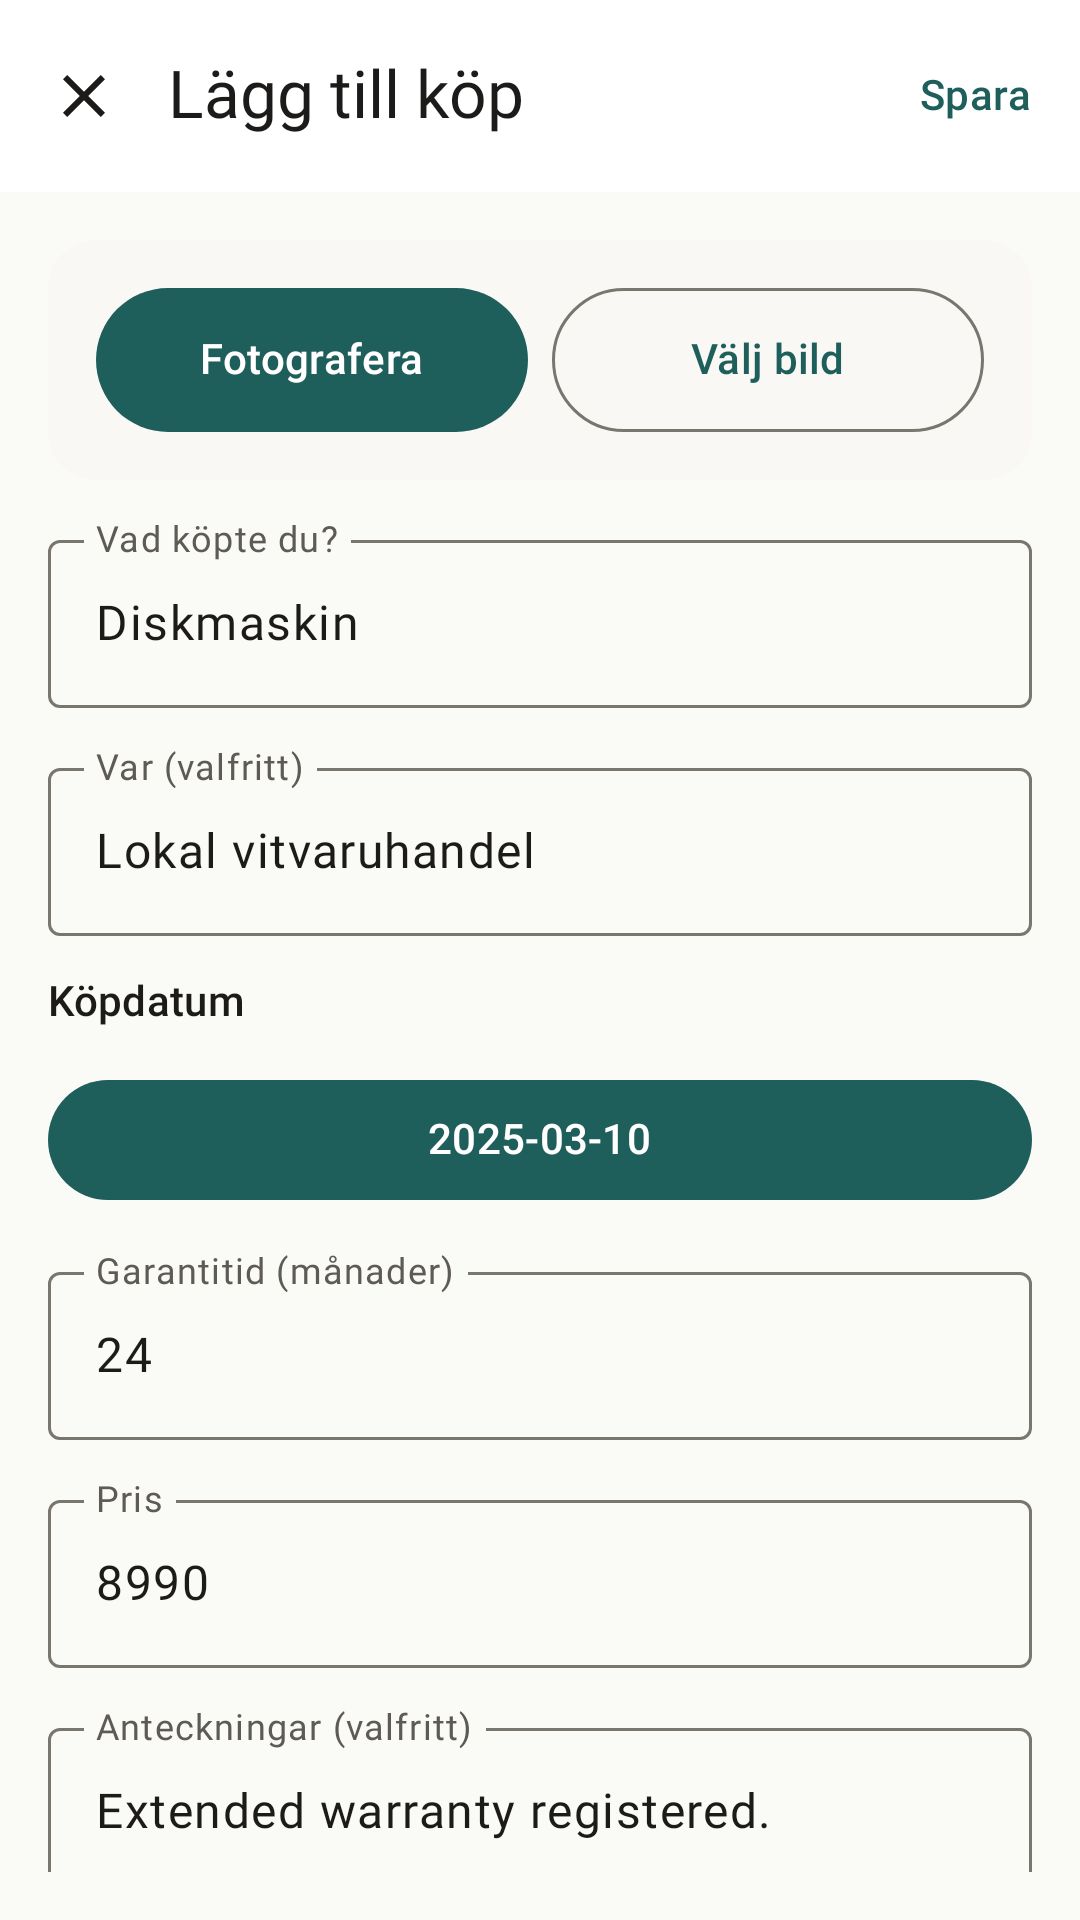
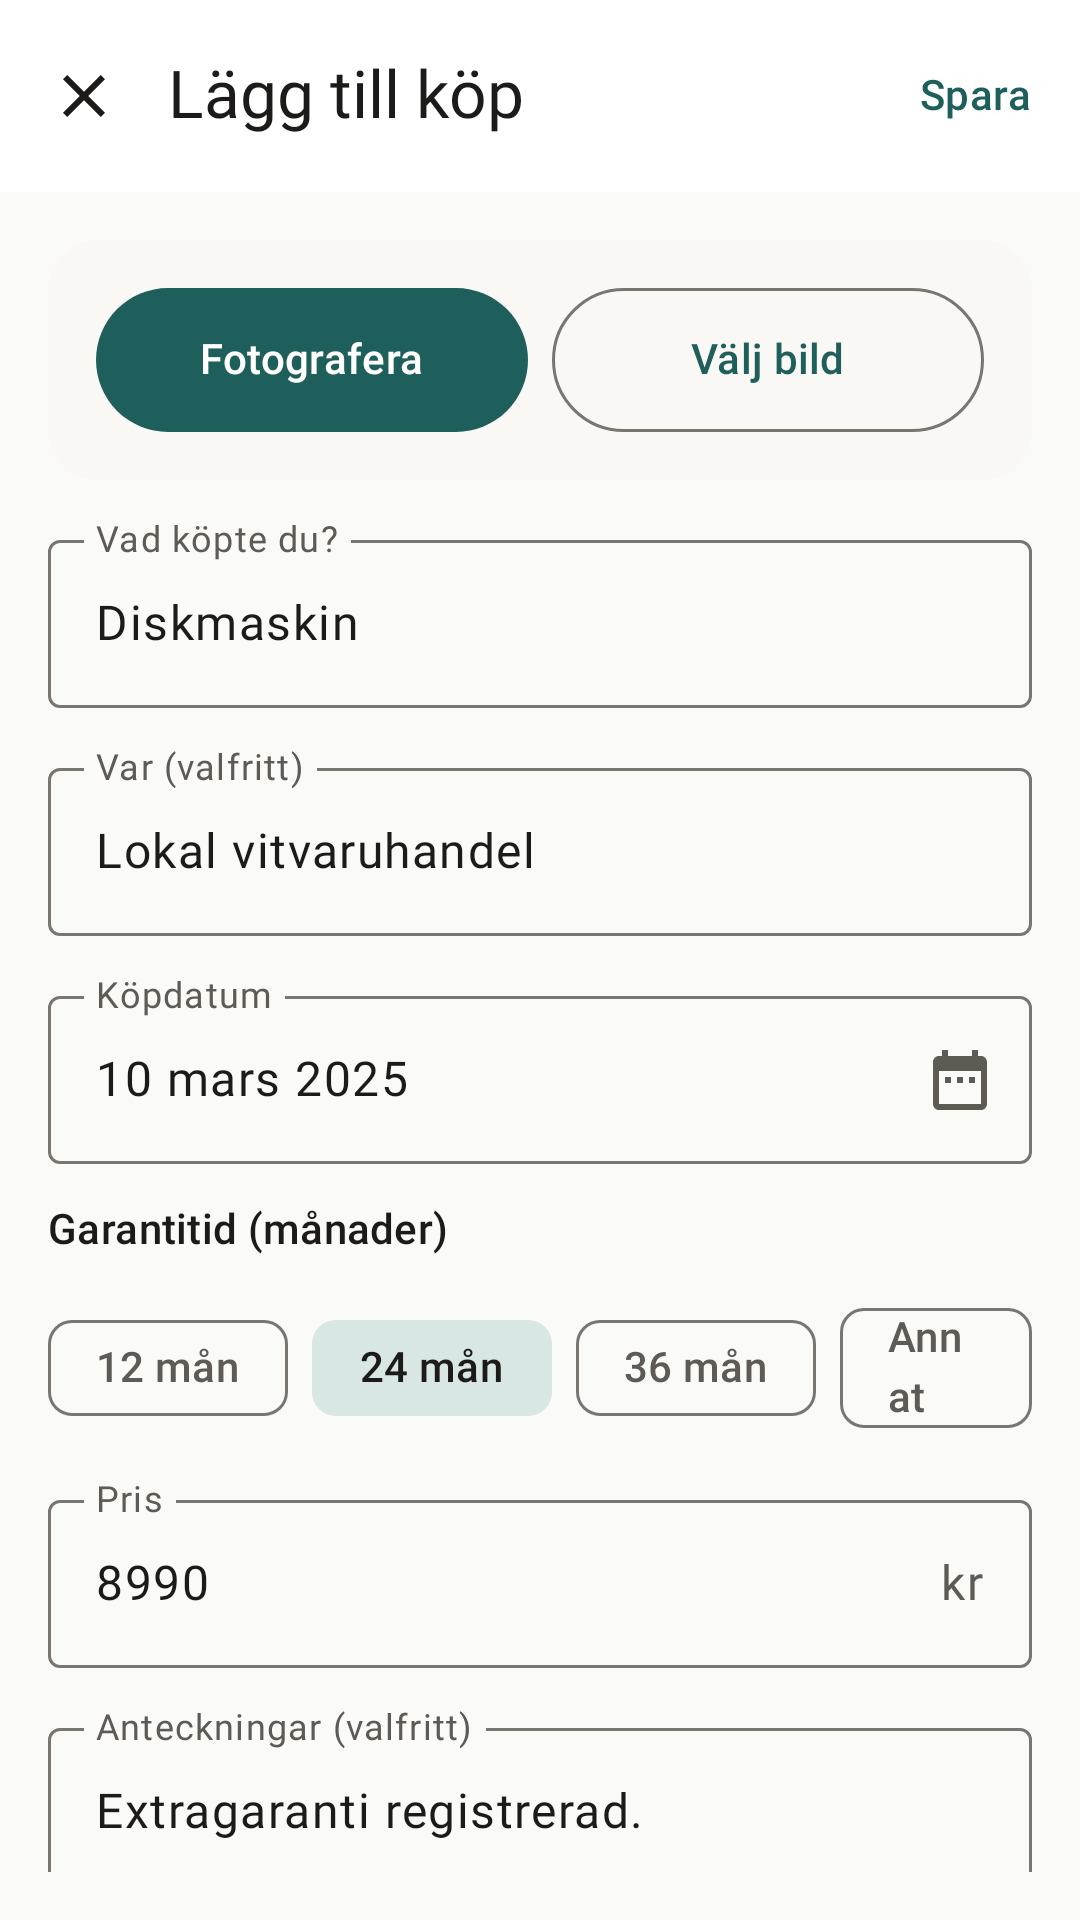
Cursor: omgenererade butiksskärmbilder efter ny design (#113)
Uppdaterar exempeldata i ButikSkarmbilderTest så listan visar alla
grupprubriker och språkspecifika anteckningar i formulärbilden.
Kör recordRoborazziDebug för sv/ och en/ (01–04; 05 oförändrad).

diff --git a/garantivalvet/src/test/kotlin/se/tmconnect/garantivalvet/butik/ButikSkarmbilderTest.kt b/garantivalvet/src/test/kotlin/se/tmconnect/garantivalvet/butik/ButikSkarmbilderTest.kt
@@ -73,6 +73,8 @@ abstract class ButikSkarmbilderBas {
 
     protected abstract fun exempelFormular(): Kop
 
+    protected abstract fun exempelAnteckning(): String
+
     private fun captureSkarm(
         filnamn: String,
         helSkarm: Boolean = false,
@@ -194,7 +196,7 @@ abstract class ButikSkarmbilderBas {
                 initialVar = formularData.varKopt!!,
                 initialGarantiManader = formularData.garantiManader.toString(),
                 initialPris = "8990",
-                initialAnteckning = "Extended warranty registered.",
+                initialAnteckning = exempelAnteckning(),
                 initialKopdatum = formularData.kopdatum,
                 kvittoUri = null,
                 onValjBild = noOp,
@@ -263,31 +265,33 @@ class ButikSkarmbilderSvTest : ButikSkarmbilderBas() {
         return listOf(
             Kop(
                 id = 1,
+                vad = "Kaffebryggare",
+                varKopt = "Elektronikbutiken",
+                kopdatum = LocalDate.of(2025, 11, 1),
+                garantiManader = 12,
+            ),
+            Kop(
+                id = 2,
                 vad = "Diskmaskin",
                 varKopt = "Lokal vitvaruhandel",
                 kopdatum = LocalDate.of(2025, 3, 10),
                 garantiManader = 24,
             ),
             Kop(
-                id = 2,
-                vad = "Mobiltelefon",
-                varKopt = "Telefonbutiken i centrum",
-                kopdatum = LocalDate.of(2025, 8, 1),
-                garantiManader = 12,
-            ),
-            Kop(
                 id = 3,
-                vad = "Cykel",
-                varKopt = "Sport och fritid",
-                kopdatum = LocalDate.of(2024, 11, 20),
-                garantiManader = 36,
+                vad = "Dammsugare",
+                varKopt = "Hem och hus",
+                kopdatum = LocalDate.of(2022, 6, 1),
+                garantiManader = 12,
             ),
         )
     }
 
-    override fun exempelDetalj(): Kop = exempelLista()[0]
+    override fun exempelDetalj(): Kop = exempelLista()[1]
 
-    override fun exempelFormular(): Kop = exempelLista()[0]
+    override fun exempelFormular(): Kop = exempelLista()[1]
+
+    override fun exempelAnteckning(): String = "Extragaranti registrerad."
 }
 
 @Config(application = Application::class, sdk = [35])
@@ -302,31 +306,33 @@ class ButikSkarmbilderEnTest : ButikSkarmbilderBas() {
         return listOf(
             Kop(
                 id = 1,
+                vad = "Coffee maker",
+                varKopt = "Electronics store",
+                kopdatum = LocalDate.of(2025, 11, 1),
+                garantiManader = 12,
+            ),
+            Kop(
+                id = 2,
                 vad = "Dishwasher",
                 varKopt = "Local appliance store",
                 kopdatum = LocalDate.of(2025, 3, 10),
                 garantiManader = 24,
             ),
             Kop(
-                id = 2,
-                vad = "Mobile phone",
-                varKopt = "Phone shop downtown",
-                kopdatum = LocalDate.of(2025, 8, 1),
-                garantiManader = 12,
-            ),
-            Kop(
                 id = 3,
-                vad = "Bicycle",
-                varKopt = "Sports shop",
-                kopdatum = LocalDate.of(2024, 11, 20),
-                garantiManader = 36,
+                vad = "Vacuum cleaner",
+                varKopt = "Home store",
+                kopdatum = LocalDate.of(2022, 6, 1),
+                garantiManader = 12,
             ),
         )
     }
 
-    override fun exempelDetalj(): Kop = exempelLista()[0]
+    override fun exempelDetalj(): Kop = exempelLista()[1]
 
-    override fun exempelFormular(): Kop = exempelLista()[0]
+    override fun exempelFormular(): Kop = exempelLista()[1]
+
+    override fun exempelAnteckning(): String = "Extended warranty registered."
 }
 
 @RunWith(RobolectricTestRunner::class)
